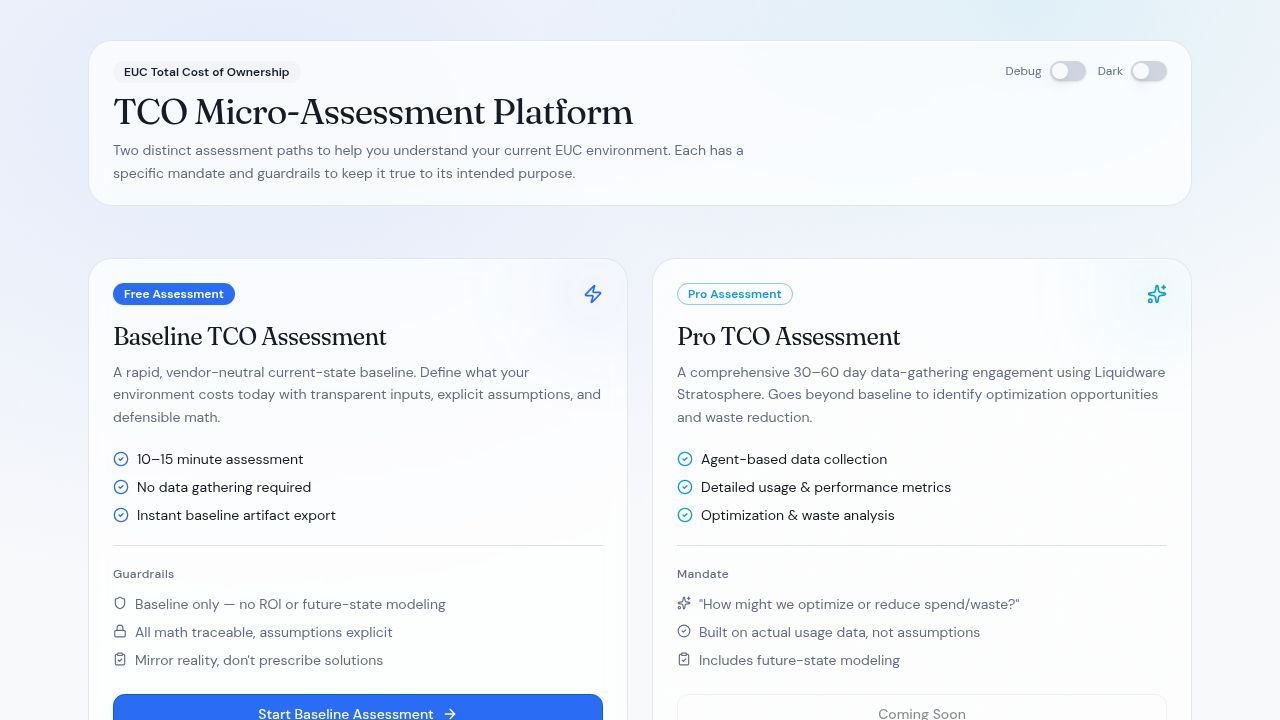
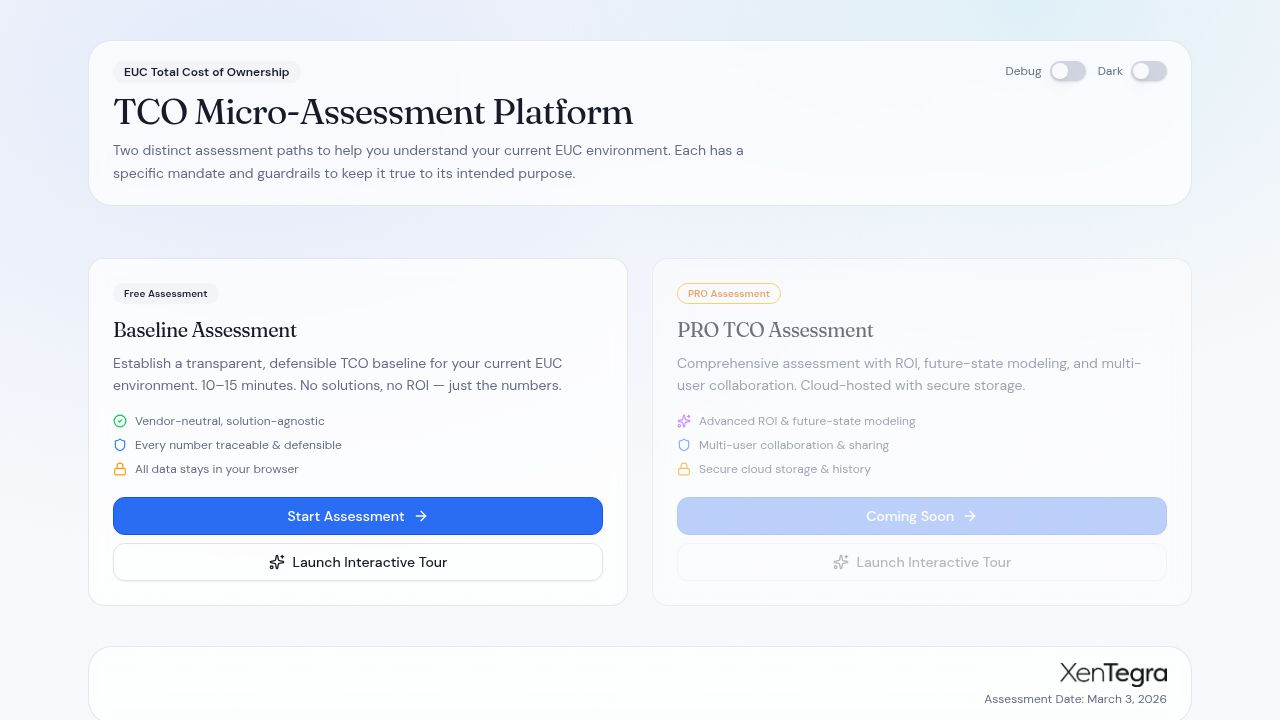
Update home page layout for assessments and interactive tours
Refactor TCO home page to consolidate assessment cards, integrating interactive tour functionality as buttons within each assessment card, and adjust styling for a consistent, compact design.

Replit-Commit-Author: Agent
Replit-Commit-Session-Id: d11ac0d6-a3b1-41f5-a719-f817ac955ba6
Replit-Commit-Checkpoint-Type: full_checkpoint
Replit-Commit-Event-Id: 4ed010d1-b485-424f-9c87-e3ff88581385
Replit-Commit-Screenshot-Url: https://storage.googleapis.com/screenshot-production-us-central1/8725fbf3-ee37-4c5a-8f2c-fec3e11dc097/d11ac0d6-a3b1-41f5-a719-f817ac955ba6/Bn3tXo0
Replit-Helium-Checkpoint-Created: true

diff --git a/client/src/pages/tco-home.tsx b/client/src/pages/tco-home.tsx
@@ -1,19 +1,15 @@
 import { motion } from "framer-motion";
 import {
-  AlertTriangle,
   ArrowRight,
   CheckCircle2,
-  ClipboardCheck,
   Lock,
   Shield,
   Sparkles,
-  Zap,
   Trash2,
 } from "lucide-react";
 import { Badge } from "@/components/ui/badge";
 import { Button } from "@/components/ui/button";
 import { Card } from "@/components/ui/card";
-import { Separator } from "@/components/ui/separator";
 import type { DraftMeta } from "@/lib/drafts";
 
 interface TcoHomeProps {
@@ -97,63 +93,34 @@ export default function TcoHome({
           transition={{ duration: 0.4, delay: 0.1, ease: "easeOut" }}
         >
           <Card className="glass hairline rounded-2xl p-6 h-full flex flex-col opacity-60 pointer-events-none select-none" data-testid="card-pro-assessment">
-            <div className="flex items-start justify-between">
-              <Badge variant="outline" className="rounded-full text-[10px] border-amber-400 text-amber-600 dark:text-amber-400" data-testid="badge-pro">
-                PRO Assessment
-              </Badge>
-              <Lock className="h-4 w-4 text-muted-foreground" />
-            </div>
-            <h2 className="mt-4 font-serif text-2xl tracking-tight" data-testid="text-pro-title">
+            <Badge variant="outline" className="w-fit rounded-full text-[10px] border-amber-400 text-amber-600 dark:text-amber-400" data-testid="badge-pro">
+              PRO Assessment
+            </Badge>
+            <h2 className="mt-3 text-xl font-serif tracking-tight" data-testid="text-pro-title">
               PRO TCO Assessment
             </h2>
-            <p className="mt-2 text-sm leading-relaxed text-muted-foreground flex-1" data-testid="text-pro-desc">
-              Comprehensive assessment with ROI, future-state modeling, and collaboration features.
+            <p className="mt-2 text-sm text-muted-foreground leading-relaxed flex-1" data-testid="text-pro-desc">
+              Comprehensive assessment with ROI, future-state modeling, and
+              multi-user collaboration. Cloud-hosted with secure storage.
             </p>
 
-            <div className="mt-4 space-y-2">
-              <div className="text-xs font-medium tracking-wide text-muted-foreground">Key Features</div>
-              <div className="grid gap-2">
-                <div className="flex items-center gap-2 text-sm">
-                  <Sparkles className="h-4 w-4 text-accent" />
-                  <span>Advanced ROI & TCO modeling</span>
-                </div>
-                <div className="flex items-center gap-2 text-sm">
-                  <Zap className="h-4 w-4 text-accent" />
-                  <span>Future-state scenario planning</span>
-                </div>
-                <div className="flex items-center gap-2 text-sm">
-                  <Shield className="h-4 w-4 text-accent" />
-                  <span>Multi-user collaboration</span>
-                </div>
-                <div className="flex items-center gap-2 text-sm">
-                  <Lock className="h-4 w-4 text-accent" />
-                  <span>Secure cloud storage</span>
-                </div>
+            <div className="mt-4 space-y-2 text-xs text-muted-foreground">
+              <div className="flex items-center gap-2">
+                <Sparkles className="h-3.5 w-3.5 text-purple-500" />
+                Advanced ROI & future-state modeling
               </div>
-            </div>
-
-            <Separator className="my-5" />
-
-            <div className="space-y-3">
-              <div className="text-xs font-medium tracking-wide text-muted-foreground">Guardrails</div>
-              <div className="grid gap-2">
-                <div className="flex items-start gap-2 text-sm">
-                  <AlertTriangle className="mt-0.5 h-3.5 w-3.5 text-muted-foreground" />
-                  <span className="text-muted-foreground">Requires paid subscription</span>
-                </div>
-                <div className="flex items-start gap-2 text-sm">
-                  <ClipboardCheck className="mt-0.5 h-3.5 w-3.5 text-muted-foreground" />
-                  <span className="text-muted-foreground">Google Cloud focus</span>
-                </div>
-                <div className="flex items-start gap-2 text-sm">
-                  <Lock className="mt-0.5 h-3.5 w-3.5 text-muted-foreground" />
-                  <span className="text-muted-foreground">Data retained for collaboration</span>
-                </div>
+              <div className="flex items-center gap-2">
+                <Shield className="h-3.5 w-3.5 text-blue-500" />
+                Multi-user collaboration & sharing
+              </div>
+              <div className="flex items-center gap-2">
+                <Lock className="h-3.5 w-3.5 text-amber-500" />
+                Secure cloud storage & history
               </div>
             </div>
 
             <div className="mt-5 flex flex-col gap-2">
-              <Button disabled className="w-full gap-2" size="lg" data-testid="button-start-pro">
+              <Button disabled className="w-full gap-2" data-testid="button-start-pro">
                 Coming Soon <ArrowRight className="h-4 w-4" />
               </Button>
               <Button disabled variant="outline" className="w-full gap-2" data-testid="button-tour-pro">
